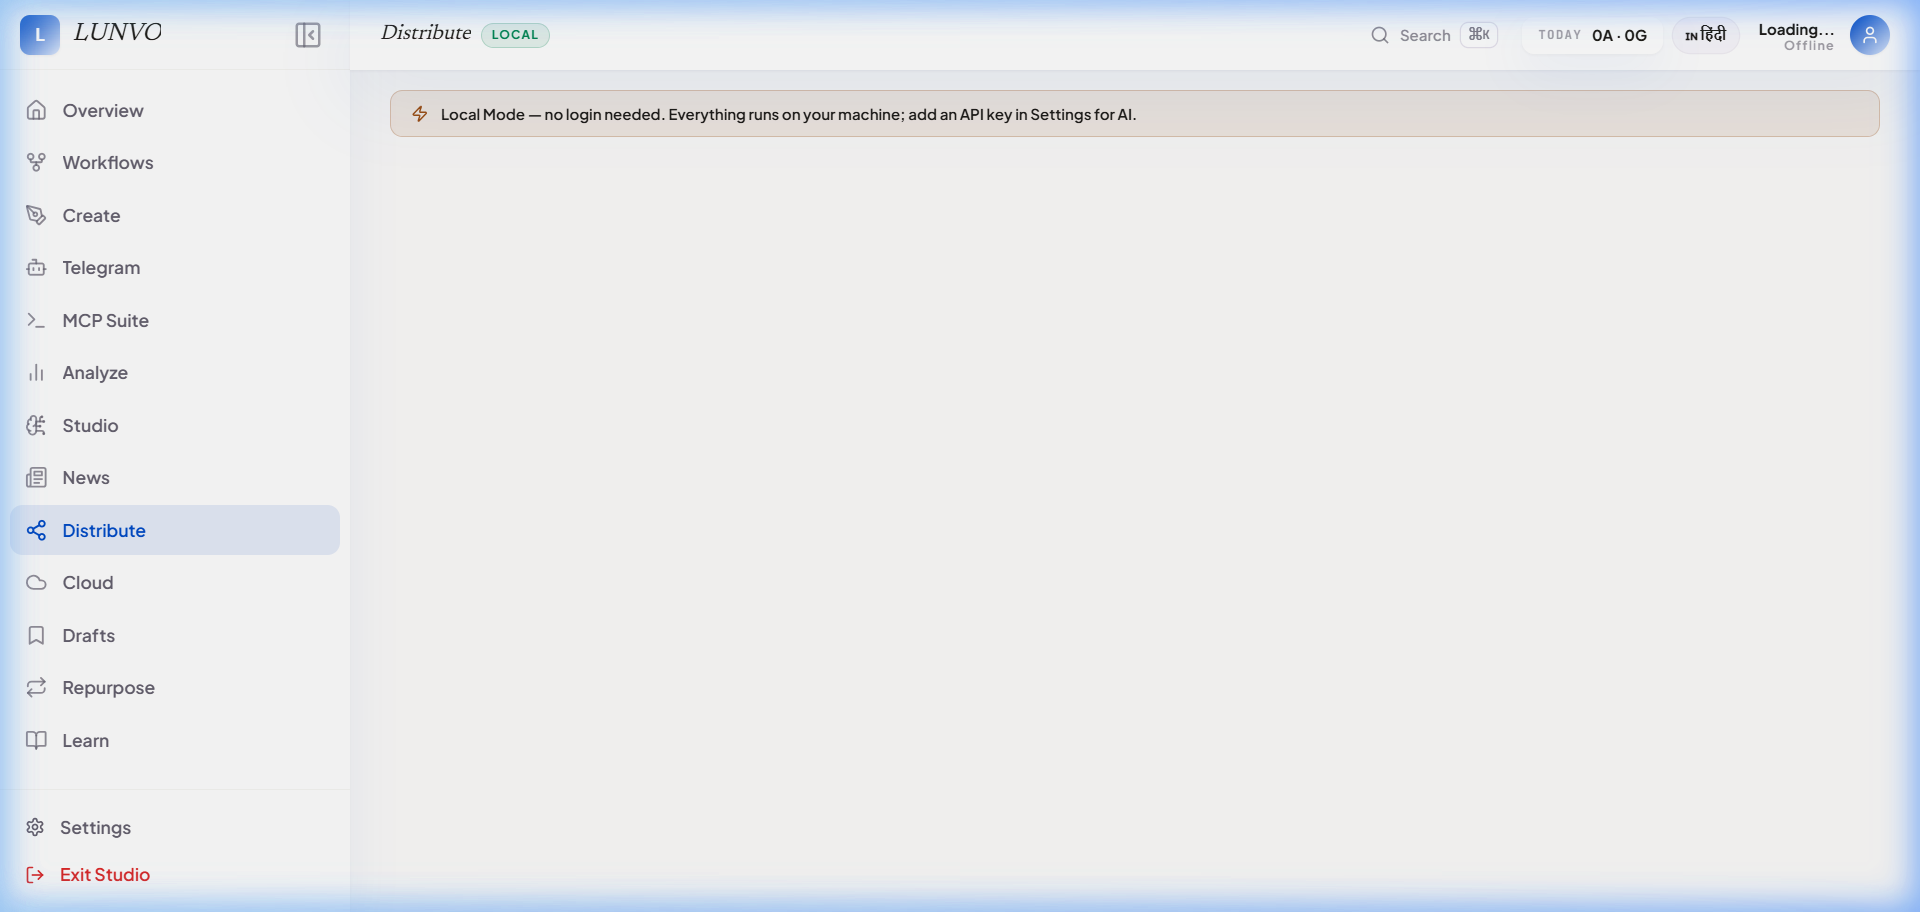
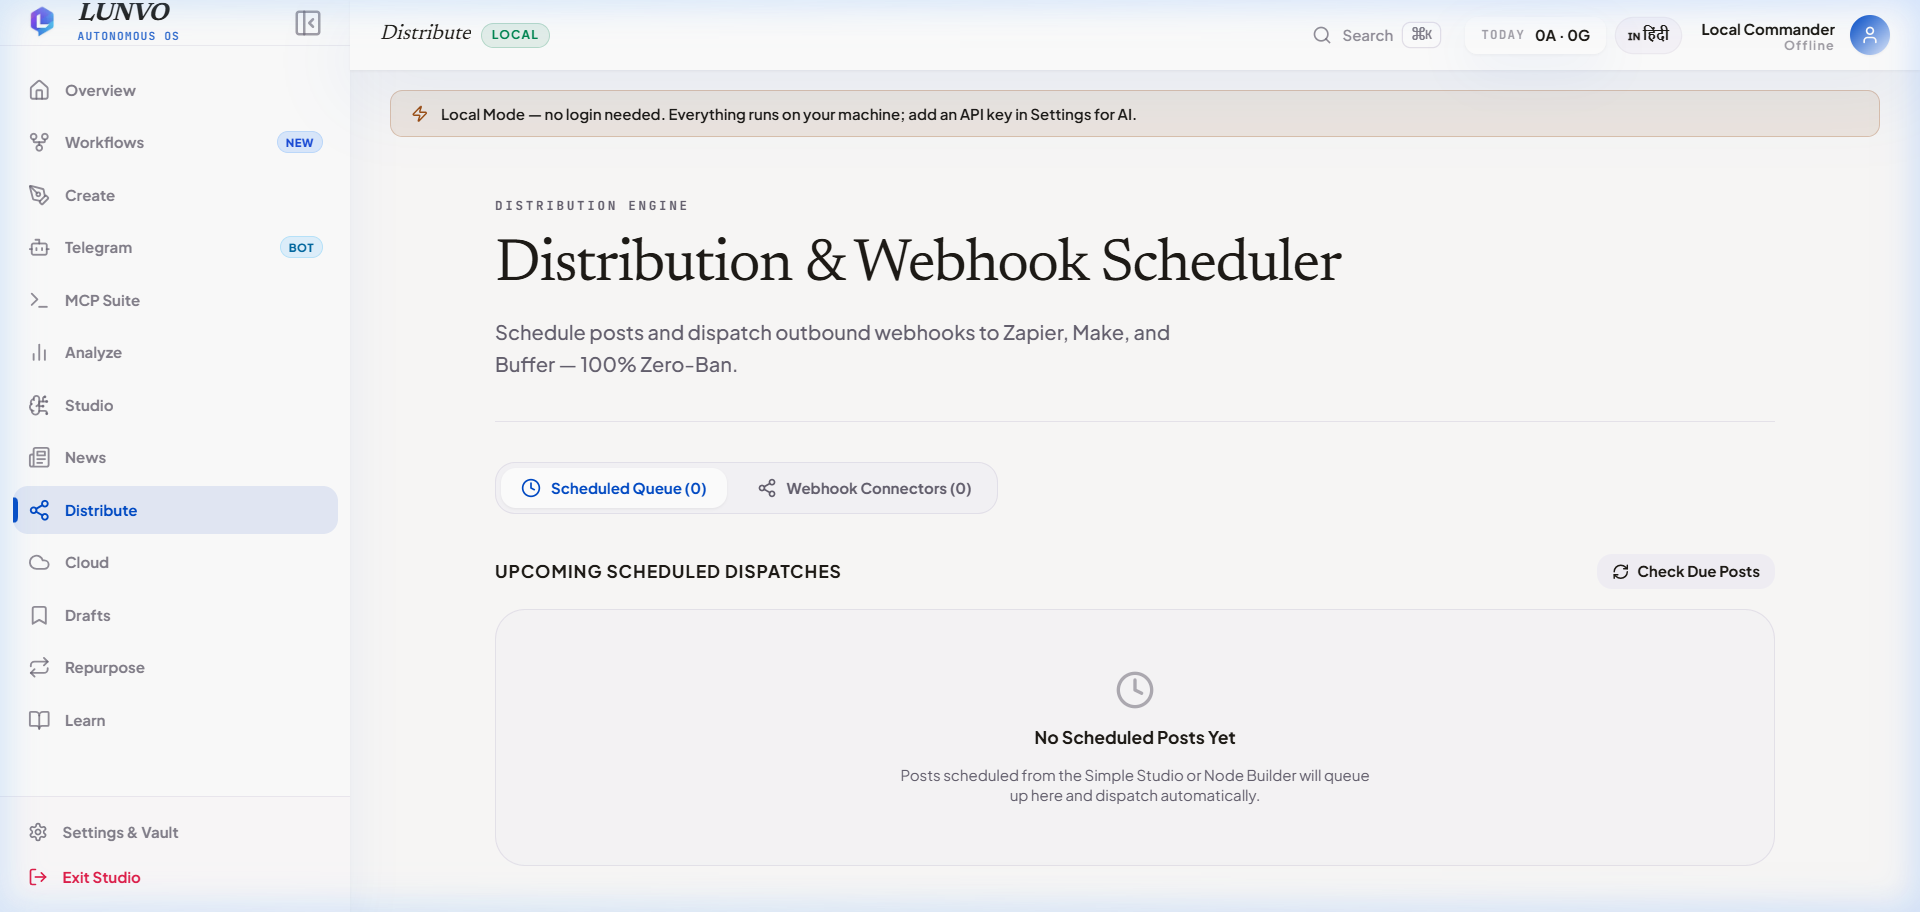
docs: add high-res screenshots from live production website and update UI showcase

diff --git a/README_hi.md b/README_hi.md
@@ -41,32 +41,58 @@ _Scout 3 वायरल हुक्स निकालता है → Writer
 </div>
 
 <details open>
-<summary><b>📸 UI और फीचर्स गैलरी (क्लिक करें)</b></summary>
+<summary><b>📸 UI और फीचर्स गैलरी — लाइव प्रोडक्शन से (क्लिक करें)</b></summary>
 <br/>
 
-### 1. n8n-स्टाइल विजुअल नोड ग्राफ बिल्डर
+### 1. आधुनिक लैंडिंग पेज और अतीलिए हीरो
+लिंक्डइन OS का मुख्य प्रवेश द्वार — लाइव इंटरएक्टिव प्रीव्यू और तत्काल एक्सेस।
+
+<img src="./public/screenshots/landing-hero.png" alt="LUNVO Live Landing Hero" width="100%" style="border-radius:10px; border:1px solid #E5E2DA;"/>
+
+### 2. मिशन कंट्रोल — डैशबोर्ड बेंटो ग्रिड
+ग्रोथ स्ट्रीक, क्विक एक्शन्स, और कंटेंट हेल्थ का एक ही स्क्रीन पर विस्तृत दृश्य।
+
+<img src="./public/screenshots/dashboard-bento.png" alt="LUNVO Dashboard Bento Grid" width="100%" style="border-radius:10px; border:1px solid #E5E2DA;"/>
+
+### 3. कंटेंट क्रिएशन स्टूडियो और Tiptap AI एडिटर
+स्लैश कमांड्स (`/hook`, `/cta`), Voice DNA और लाइव लिंक्डइन मोबाइल प्रीव्यू के साथ।
+
+<img src="./public/screenshots/content-studio.png" alt="LUNVO Content Creation Studio" width="100%" style="border-radius:10px; border:1px solid #E5E2DA;"/>
+
+### 4. पोस्ट एनालाइजर और 100-पॉइंट वायरल मीटर
+हुक इम्पैक्ट, मोबाइल रीडेबिलिटी और Anti-AI ह्यूमन स्कोर का तत्काल ऑडिट।
+
+<img src="./public/screenshots/post-analyzer.png" alt="LUNVO Post Analyzer and Virality Engine" width="100%" style="border-radius:10px; border:1px solid #E5E2DA;"/>
+
+### 5. n8n-स्टाइल 2D विजुअल वर्कफ़्लो ऑटोमेशन कैनवास
+पैन, ज़ूम (30% से 200%), नोड वायरिंग और लाइव पाइपलाइन एग्जीक्यूशन।
 
 <img src="./public/screenshots/workflow-canvas.png" alt="LUNVO Visual Workflow Canvas" width="100%" style="border-radius:10px; border:1px solid #E5E2DA;"/>
 
-### 2. नोड इंस्पेक्टर और मॉडल ओवरराइड्स
+### 6. प्रोडक्शन वर्कफ़्लो टेम्पलेट्स गैलरी
+12 प्रीबिल्ट ऑटोमेशन टेम्पलेट्स — RSS News to Post, YouTube Repurposer, Carousel PDF, Quality Gatekeeper.
 
-<img src="./public/screenshots/node-inspector.png" alt="LUNVO Node Inspector Panel" width="100%" style="border-radius:10px; border:1px solid #E5E2DA;"/>
+<img src="./public/screenshots/workflow-templates.png" alt="LUNVO Workflow Template Gallery" width="100%" style="border-radius:10px; border:1px solid #E5E2DA;"/>
 
-### 3. लाइव 3-एजेंट पाइपलाइन एग्जीक्यूशन और स्कोर आउटपुट
+### 7. सुरक्षित आउटबाउंड वेबहूक शेड्यूलर और क्यू मैनेजर
+Zapier, Make, और Buffer के जरिए बिना बैन रिस्क के ऑटो-शेड्यूलिंग।
 
-<img src="./public/screenshots/pipeline-execution.png" alt="LUNVO Live Pipeline Execution" width="100%" style="border-radius:10px; border:1px solid #E5E2DA;"/>
+<img src="./public/screenshots/distribution-webhooks.png" alt="LUNVO Webhook Distribution Queue" width="100%" style="border-radius:10px; border:1px solid #E5E2DA;"/>
 
-### 4. 24/7 टेलीग्राम रिमोट बॉट और मोबाइल फोन कंट्रोल्स
+### 8. 54+ AI प्रोवाइडर वॉल्ट और सेटिंग्स
+Frontier, Groq, Cerebras और ऑफलाइन Ollama के लिए क्लाइंट-साइड सिक्योर की स्टोरेज।
+
+<img src="./public/screenshots/settings-vault.png" alt="LUNVO Provider Vault and Settings" width="100%" style="border-radius:10px; border:1px solid #E5E2DA;"/>
+
+### 9. 24/7 टेलीग्राम रिमोट बॉट और मोबाइल फोन कंट्रोल्स
+फोन से बैठे-बैठे `/idea`, `/humanize`, और `/approve` के जरिए पोस्ट शेड्यूल करें।
 
 <img src="./public/screenshots/telegram-bot.png" alt="LUNVO Telegram Companion Bot" width="100%" style="border-radius:10px; border:1px solid #E5E2DA;"/>
 
-### 5. हेडलेस Model Context Protocol (MCP) सर्वर (Cursor और Claude के लिए)
+### 10. हेडलेस Model Context Protocol (MCP) सर्वर
+Claude Desktop, Cursor और Antigravity IDE के लिए 8 टूल्स (`npx lunvo-mcp`).
 
 <img src="./public/screenshots/mcp-suite.png" alt="LUNVO Headless MCP Server" width="100%" style="border-radius:10px; border:1px solid #E5E2DA;"/>
-
-### 6. आउटबाउंड वेबहूक शेड्यूलर और क्यू मैनेजर (Zapier / Make / Buffer)
-
-<img src="./public/screenshots/distribution-webhooks.png" alt="LUNVO Webhook Distribution" width="100%" style="border-radius:10px; border:1px solid #E5E2DA;"/>
 
 </details>
 

diff --git a/README.md b/README.md
@@ -105,38 +105,58 @@ _Scout discovers contrarian hooks → Writer streams word-by-word with Voice DNA
 </p>
 
 <details open>
-<summary><b>📸 UI Showcase & Feature Gallery (Click to toggle)</b></summary>
+<summary><b>📸 UI Showcase & Feature Gallery — Direct From Live Production (Click to toggle)</b></summary>
 <br/>
 
-### 1. n8n-Style 2D Visual Workflow Canvas
-Full interactive pan, zoom (30% to 200%), wire dragging, and real-time step execution with topological runtime.
+### 1. Modern Landing Page & Atelier Hero
+The entry door to the LinkedIn OS — featuring real-time interactive previews and zero-friction access.
+
+<img src="./public/screenshots/landing-hero.png" alt="LUNVO Live Landing Hero" width="100%" style="border-radius:10px; border:1px solid #E5E2DA;"/>
+
+### 2. Mission Control — Dashboard Bento Grid
+Consolidated view of your LinkedIn growth streak, quick actions, pipeline status, and content health.
+
+<img src="./public/screenshots/dashboard-bento.png" alt="LUNVO Dashboard Bento Grid" width="100%" style="border-radius:10px; border:1px solid #E5E2DA;"/>
+
+### 3. Content Creation Studio & Tiptap AI Editor
+Drafting workstation with inline slash commands (`/hook`, `/cta`), active Voice DNA injection, and live side-by-side LinkedIn mobile preview.
+
+<img src="./public/screenshots/content-studio.png" alt="LUNVO Content Creation Studio" width="100%" style="border-radius:10px; border:1px solid #E5E2DA;"/>
+
+### 4. Post Analyzer & 100-Point Virality Meter
+Instant audit of hook impact, mobile readability, dwell-time estimation, and Anti-AI Humanizer score.
+
+<img src="./public/screenshots/post-analyzer.png" alt="LUNVO Post Analyzer and Virality Engine" width="100%" style="border-radius:10px; border:1px solid #E5E2DA;"/>
+
+### 5. n8n-Style 2D Visual Workflow Automation Canvas
+Full interactive pan, zoom (30% to 200%), node wiring, and live topological pipeline execution.
 
 <img src="./public/screenshots/workflow-canvas.png" alt="LUNVO Visual Workflow Canvas" width="100%" style="border-radius:10px; border:1px solid #E5E2DA;"/>
 
-### 2. Node Inspector & Per-Node AI Model Routing
-Override providers per node — use Groq for fast brainstorming, Claude 3.5 Sonnet for copy, and DeepSeek for critique across 54+ providers.
+### 6. Production Workflow Template Gallery
+12 prebuilt automation recipes — Daily RSS News to Post, YouTube Transcript Repurposer, Bullet Notes to Carousel PDF, Quality Gatekeeper, and more.
 
-<img src="./public/screenshots/node-inspector.png" alt="LUNVO Node Inspector Panel" width="100%" style="border-radius:10px; border:1px solid #E5E2DA;"/>
+<img src="./public/screenshots/workflow-templates.png" alt="LUNVO Workflow Template Gallery" width="100%" style="border-radius:10px; border:1px solid #E5E2DA;"/>
 
-### 3. Live 3-Agent Pipeline Execution & Virality Drawer
-Visual real-time streaming as Scout, Writer, and Critic synthesize and score posts.
+### 7. SSRF-Protected Outbound Webhook Dispatcher & Queue Manager
+Schedule posts directly to Zapier, Make, and Buffer with zero account risk (no scrapers, no cookie hijacking).
 
-<img src="./public/screenshots/pipeline-execution.png" alt="LUNVO Live Pipeline Execution" width="100%" style="border-radius:10px; border:1px solid #E5E2DA;"/>
+<img src="./public/screenshots/distribution-webhooks.png" alt="LUNVO Webhook Distribution Queue" width="100%" style="border-radius:10px; border:1px solid #E5E2DA;"/>
 
-### 4. 24/7 Telegram Companion Bot & Remote Mobile Phone Control
-Generate drafts on the go via `/idea`, review inline keyboards, trigger `/humanize`, and `/approve` straight into your schedule.
+### 8. 54+ AI Provider Vault & Settings
+Client-side encrypted BYOK key storage supporting Frontier models, fast inference (Groq, Cerebras), open providers, and offline local Ollama.
+
+<img src="./public/screenshots/settings-vault.png" alt="LUNVO Provider Vault and Settings" width="100%" style="border-radius:10px; border:1px solid #E5E2DA;"/>
+
+### 9. 24/7 Mobile Telegram Companion Bot
+Remote command interface for smartphone control — generate ideas via `/idea`, rewrite via `/humanize`, and `/approve` directly to queue.
 
 <img src="./public/screenshots/telegram-bot.png" alt="LUNVO Telegram Companion Bot" width="100%" style="border-radius:10px; border:1px solid #E5E2DA;"/>
 
-### 5. Headless Model Context Protocol (MCP) Server
-Claude Desktop, Cursor, and Antigravity can directly leverage LUNVO via 8 registered tools (`npx lunvo-mcp`).
+### 10. Headless Model Context Protocol (MCP) Suite
+Direct native IDE integration for Claude Desktop, Cursor, and Antigravity with 8 registered tool endpoints (`npx lunvo-mcp`).
 
 <img src="./public/screenshots/mcp-suite.png" alt="LUNVO Headless MCP Server" width="100%" style="border-radius:10px; border:1px solid #E5E2DA;"/>
-
-### 6. SSRF-Protected Outbound Webhook Dispatcher & Queue Manager
-Schedule posts to Zapier, Make, and Buffer with hardened IP blocklists, userinfo sanitization, and manual redirect validation.
-
-<img src="./public/screenshots/distribution-webhooks.png" alt="LUNVO Webhook Distribution" width="100%" style="border-radius:10px; border:1px solid #E5E2DA;"/>
 
 </details>
 
